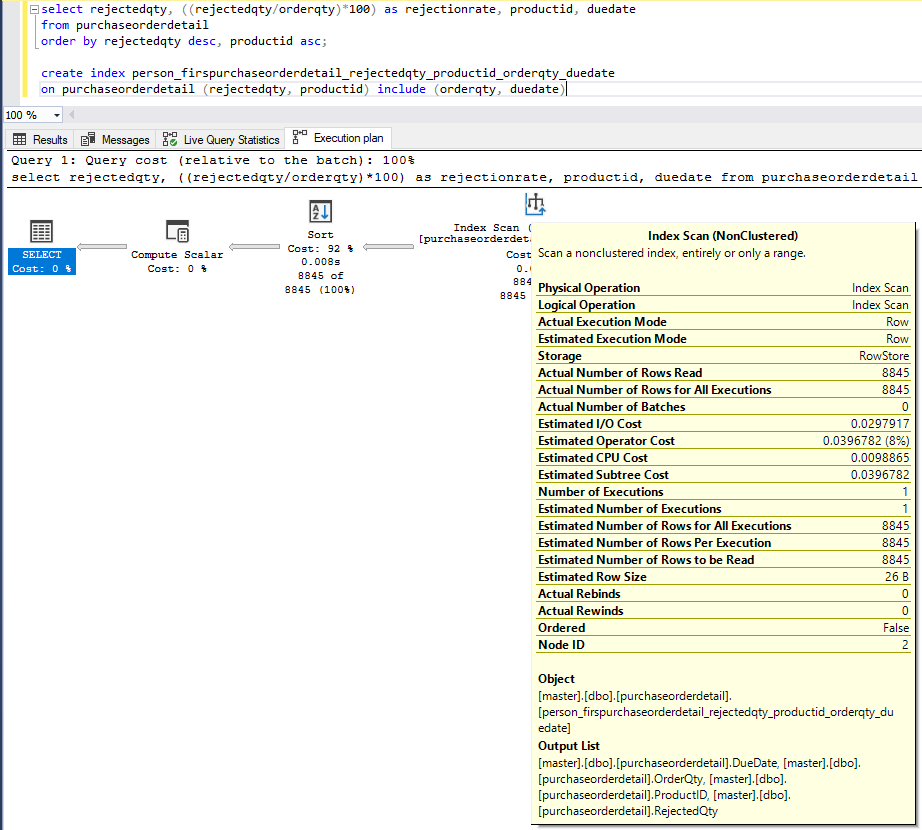
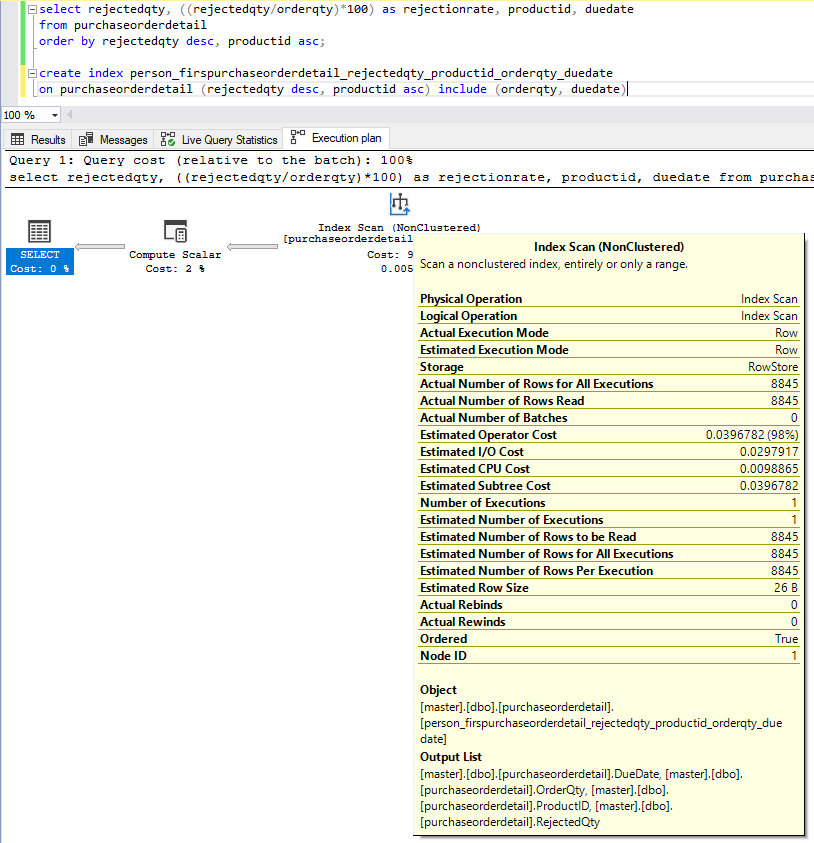
Fix ex3

Changed region(s): [[0.0, 0.0, 1.0, 1.0]]

diff --git a/lab5/lab5-index-opt-2.md b/lab5/lab5-index-opt-2.md
@@ -277,11 +277,11 @@ Jaki indeks można zastosować aby zoptymalizować koszt zapytania? Przygotuj po
 ---
 > Wyniki: 
 
-Można dodać indeks na kolumny `rejectedqty` oraz `productid` z sekcją `include`, w której uwzględnimy kolumny, których dodatkowo potrzebujemy, czyli `orderqty` oraz `duedate`, aby nie trzeba było realizować dodatkowych operacji pobierających te wartości.
+Można dodać indeks na kolumny `rejectedqty` oraz `productid` wskazując sortowanie tak jak w zapytaniu z sekcją `include`, w której uwzględnimy kolumny, których dodatkowo potrzebujemy, czyli `orderqty` oraz `duedate`, aby nie trzeba było realizować dodatkowych operacji pobierających te wartości.
 
 ```sql
 create index person_firspurchaseorderdetail_rejectedqty_productid_orderqty_duedate
-on purchaseorderdetail (rejectedqty, productid) include (orderqty, duedate)
+on purchaseorderdetail (rejectedqty desc, productid asc) include (orderqty, duedate)
 ```
 
 Ponownie wykonaj analizę zapytania:
@@ -292,7 +292,7 @@ Ponownie wykonaj analizę zapytania:
 ![alt text](./images/zad3_4.png)
 ![alt text](./images/zad3_5.png)
 
-Koszt części zapytania obejmującej sortowanie wielokrotnie zmalał. Nadal jest to jednak najbardziej kosztowny element.
+Zniknęła najbardziej kosztowna część zapytania obejmująca sortowanie dzięki zastosowaniu indeksu na kolumny po których odbywało się sortowanie, gdyż nie jest ono już potrzebne, bo jest zapownione przez realizację indeksu.
 Znacznie zmniejszy się także koszt operacji wejścia/wyjścia.
 Zmalał całkowity koszt i czas zapytania.
 
